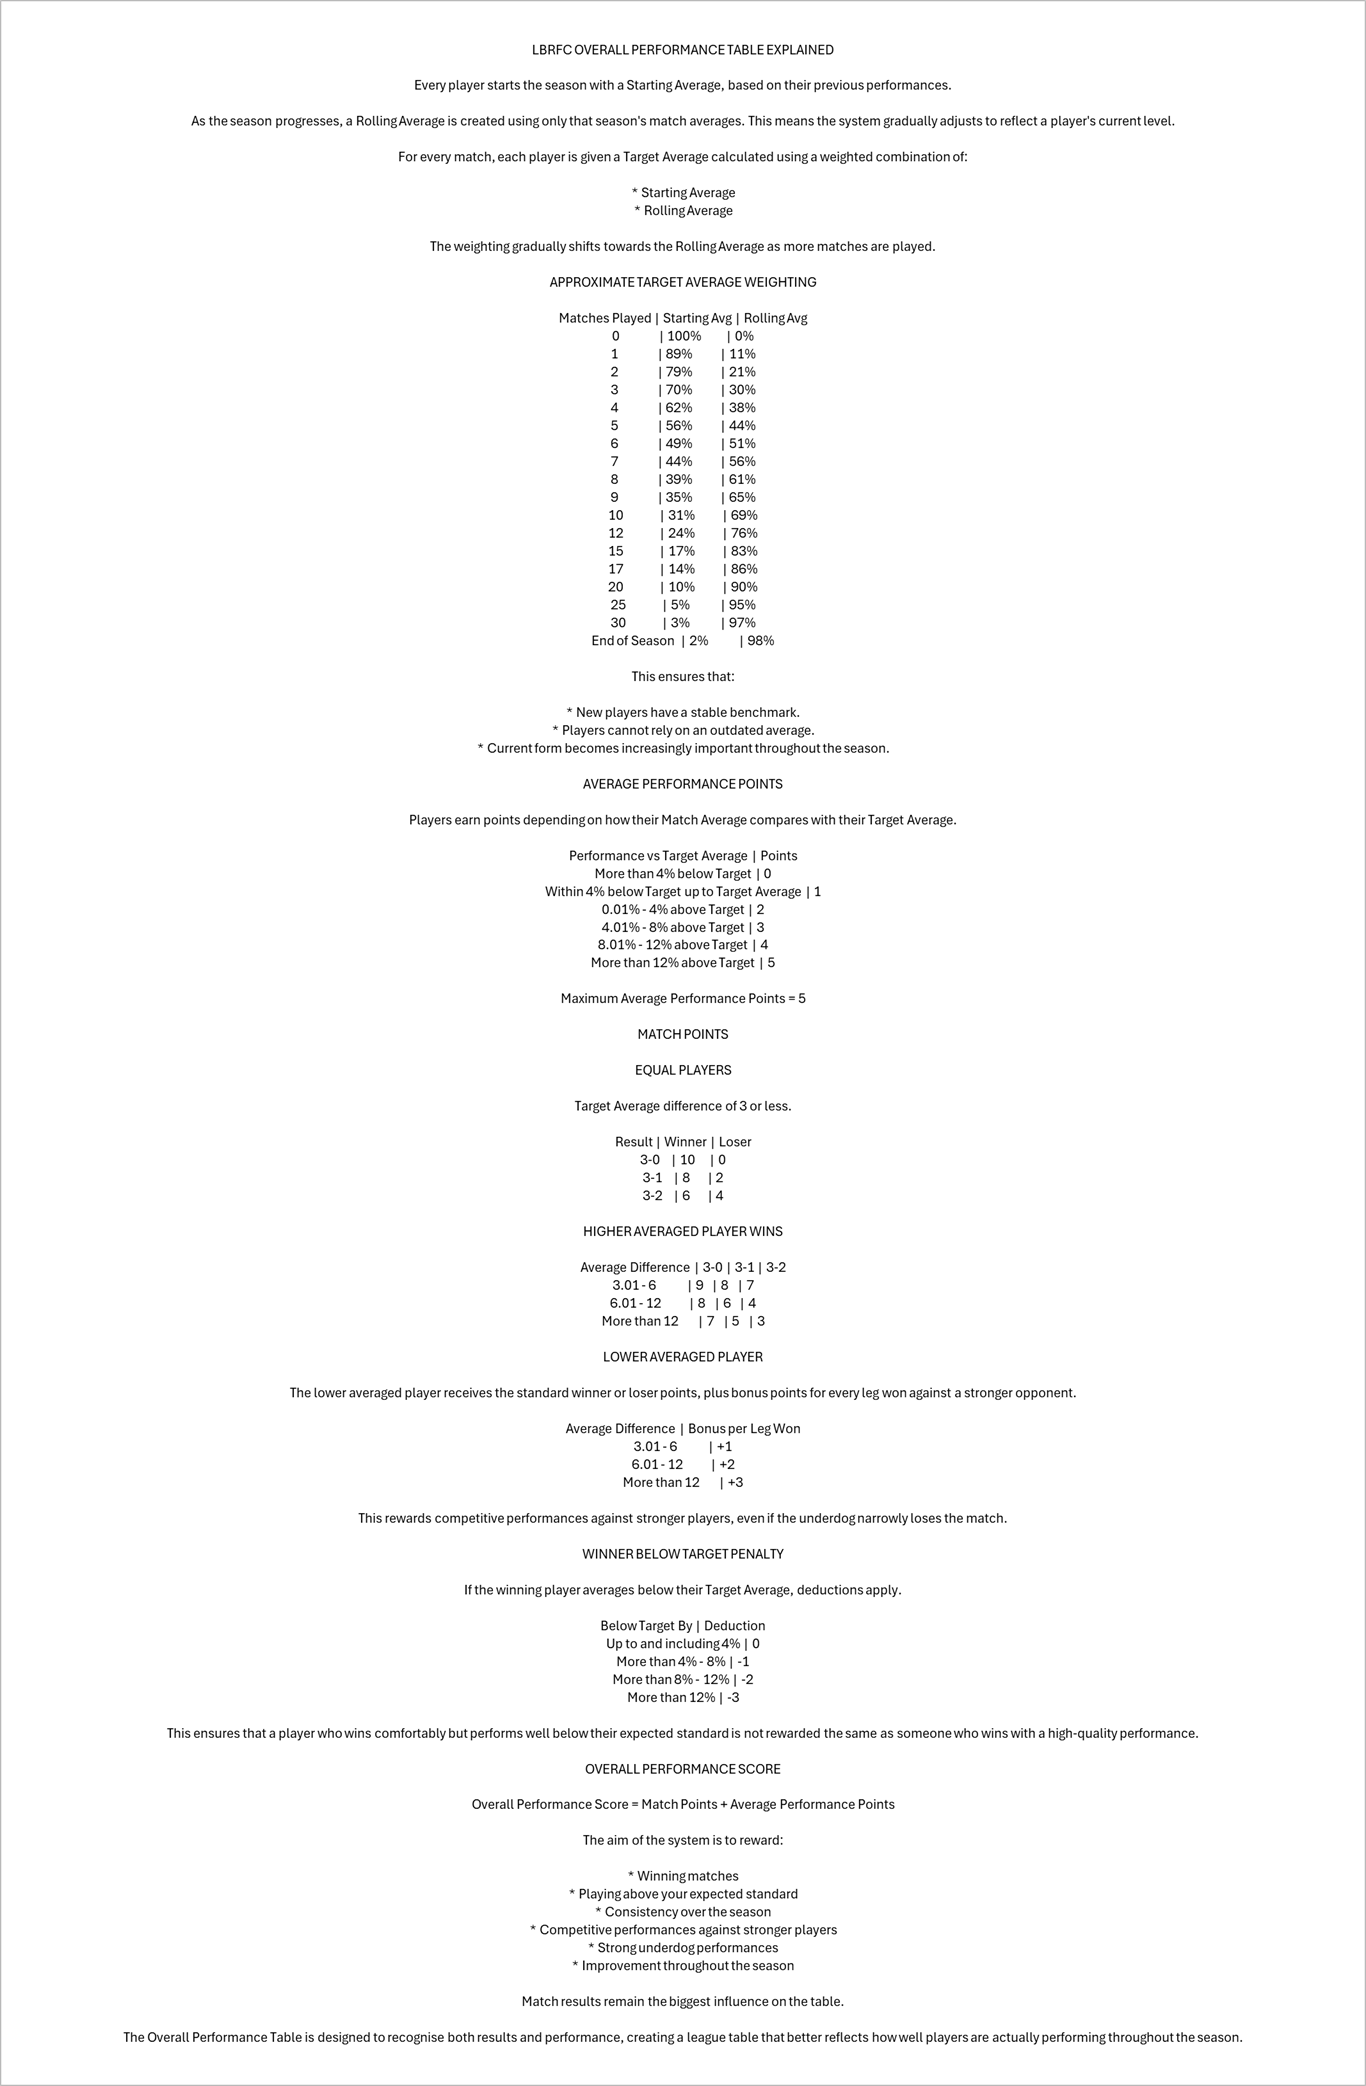
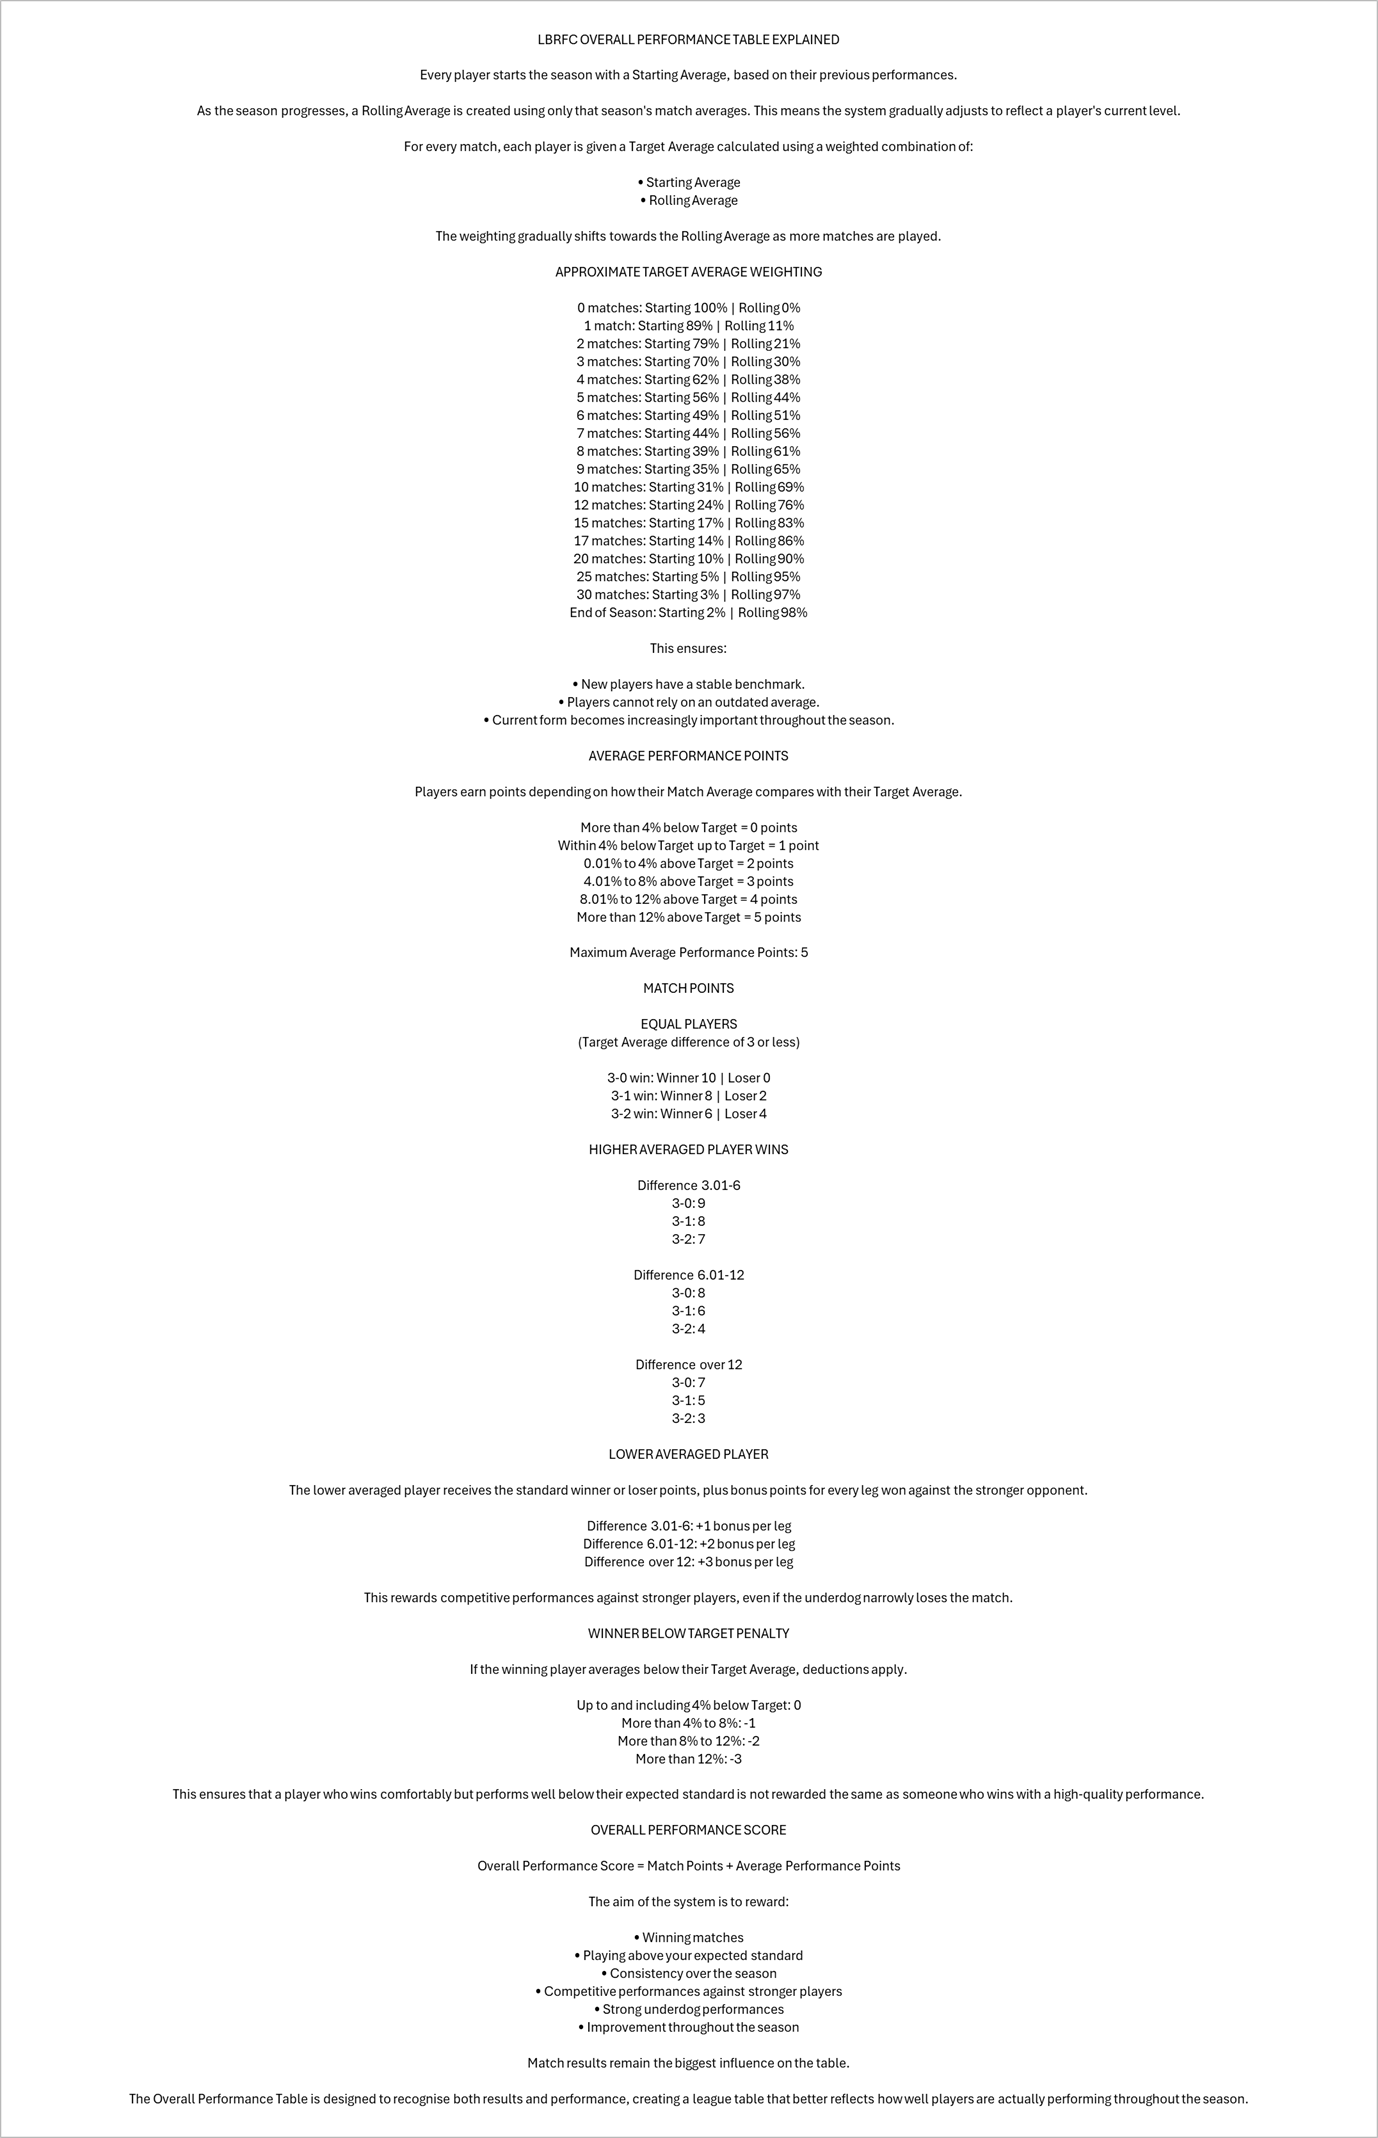
Auto update live scores

Changed region(s): [[0.0922, 0.0, 0.8917, 0.9971]]

diff --git a/index.files/sheet001.html b/index.files/sheet001.html
@@ -1382,7 +1382,7 @@ cmVsc1BLBQYAAAAABgAGAIQBAABZBgEAAAA=
   border-top:1.0pt solid windowtext;border-right:none;border-bottom:1.0pt solid windowtext;
   border-left:1.0pt solid windowtext;background:#00B050;mso-pattern:black none'>ACTIVE</td>
   <td class=xl74 colspan=7 align=left style='mso-ignore:colspan'>Last refreshed
-  at 31-Jul-2026 17:54:44 | Refreshed + Published OK</td>
+  at 31-Jul-2026 18:08:00 | Refreshed + Published OK</td>
   <td class=xl74>&nbsp;</td>
   <td class=xl76>&nbsp;</td>
   <td class=xl66>&nbsp;</td>
@@ -3966,8 +3966,8 @@ cmVsc1BLBQYAAAAABgAGAIQBAABZBgEAAAA=
  <tr height=20 style='height:15.0pt'>
   <td height=20 style='height:15.0pt' align=left valign=top><!--[if gte vml 1]><v:shape
    id="TextBox_x0020_2" o:spid="_x0000_s1026" type="#_x0000_t75" style='position:absolute;
-   direction:LTR;text-align:left;margin-left:.75pt;margin-top:13.5pt;width:1024.5pt;
-   height:1564.5pt;z-index:2;visibility:visible;mso-wrap-style:square;
+   direction:LTR;text-align:left;margin-left:.75pt;margin-top:13.5pt;width:1033.5pt;
+   height:1603.5pt;z-index:2;visibility:visible;mso-wrap-style:square;
[3 lines of base64/hex data omitted]
@@ -3977,65 +3977,64 @@ bHuj+ZQu9z/UfAMAAP//AwBQSwMEFAAGAAgAAAAhADHdX2HSAAAAjwEAAAsAAABfcmVscy8ucmVs
[61 lines of base64/hex data omitted]
-AAAAAA==
[57 lines of base64/hex data omitted]
+AABkcnMvZG93bnJldi54bWxQSwUGAAAAAAQABAD1AAAAzg0AAAAA
 " o:insetmode="auto">
    <v:imagedata src="image003.png" o:title=""/>
    <o:lock v:ext="edit" aspectratio="f"/>
@@ -4045,8 +4044,8 @@ AAAAAA==
     <x:AutoPict/>
    </x:ClientData>
   </v:shape><![endif]--><![if !vml]><span style='mso-ignore:vglayout;
-  position:absolute;z-index:2;margin-left:1px;margin-top:18px;width:1366px;
-  height:2086px'><img width=1366 height=2086 src=image004.png v:shapes="TextBox_x0020_2"></span><![endif]><span
+  position:absolute;z-index:2;margin-left:1px;margin-top:18px;width:1378px;
+  height:2138px'><img width=1378 height=2138 src=image004.png v:shapes="TextBox_x0020_2"></span><![endif]><span
   style='mso-ignore:vglayout2'>
   <table cellpadding=0 cellspacing=0>
    <tr>
@@ -4074,8 +4073,8 @@ AAAAAA==
  <tr height=20 style='page-break-before:always;height:15.0pt'>
   <td height=20 colspan=48 style='height:15.0pt;mso-ignore:colspan'></td>
  </tr>
- <tr height=20 style='height:15.0pt'>
-  <td height=20 colspan=48 style='height:15.0pt;mso-ignore:colspan'></td>
+ <tr height=60 style='height:45.0pt;mso-xlrowspan:3'>
+  <td height=60 colspan=48 style='height:45.0pt;mso-ignore:colspan'></td>
  </tr>
  <![if supportMisalignedColumns]>
  <tr height=0 style='display:none'>

diff --git a/index.html b/index.html
@@ -15,7 +15,7 @@ xmlns="http://www.w3.org/TR/REC-html40">
 <meta name=Generator content="Microsoft Excel 15">
 <link rel=File-List href="index.files/filelist.xml">
 <![if !supportTabStrip]>
-<link id="shLink" href="index.files/sheet001.html?v=20260731180759">
+<link id="shLink" href="index.files/sheet001.html?v=20260731182112">
 
 <link id="shLink">
 
